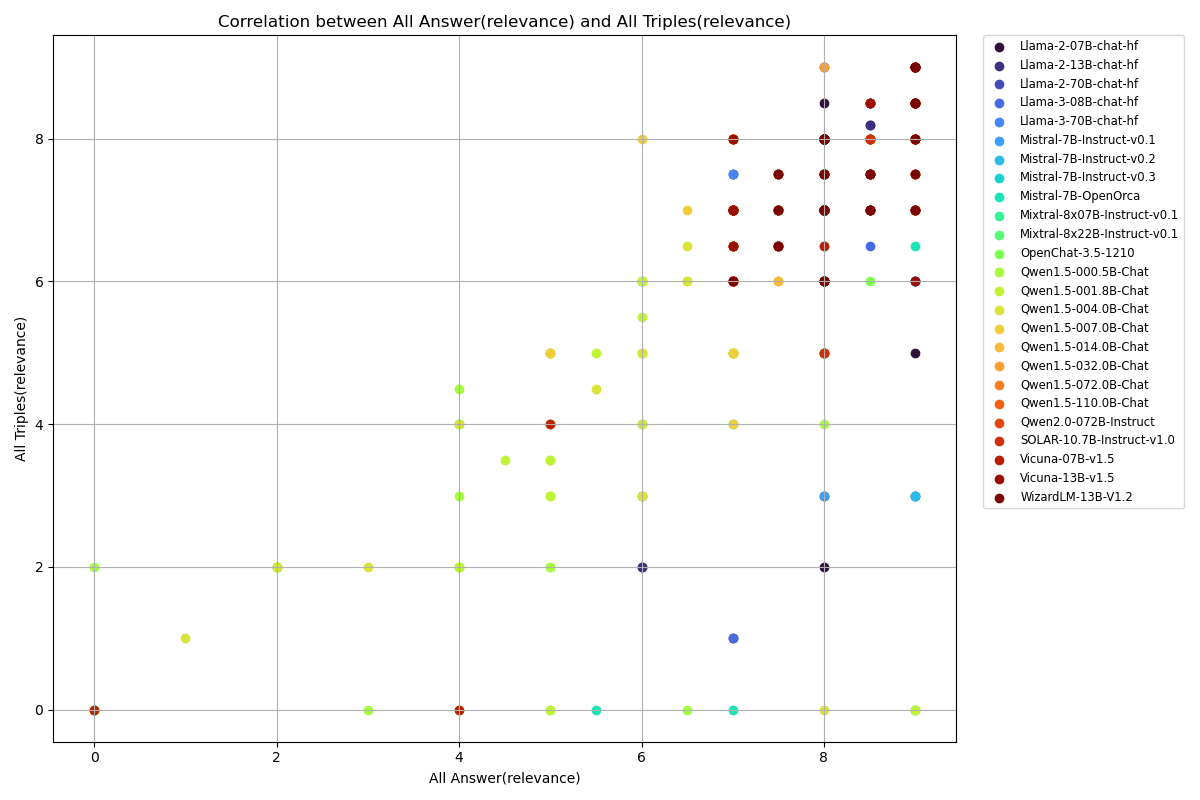
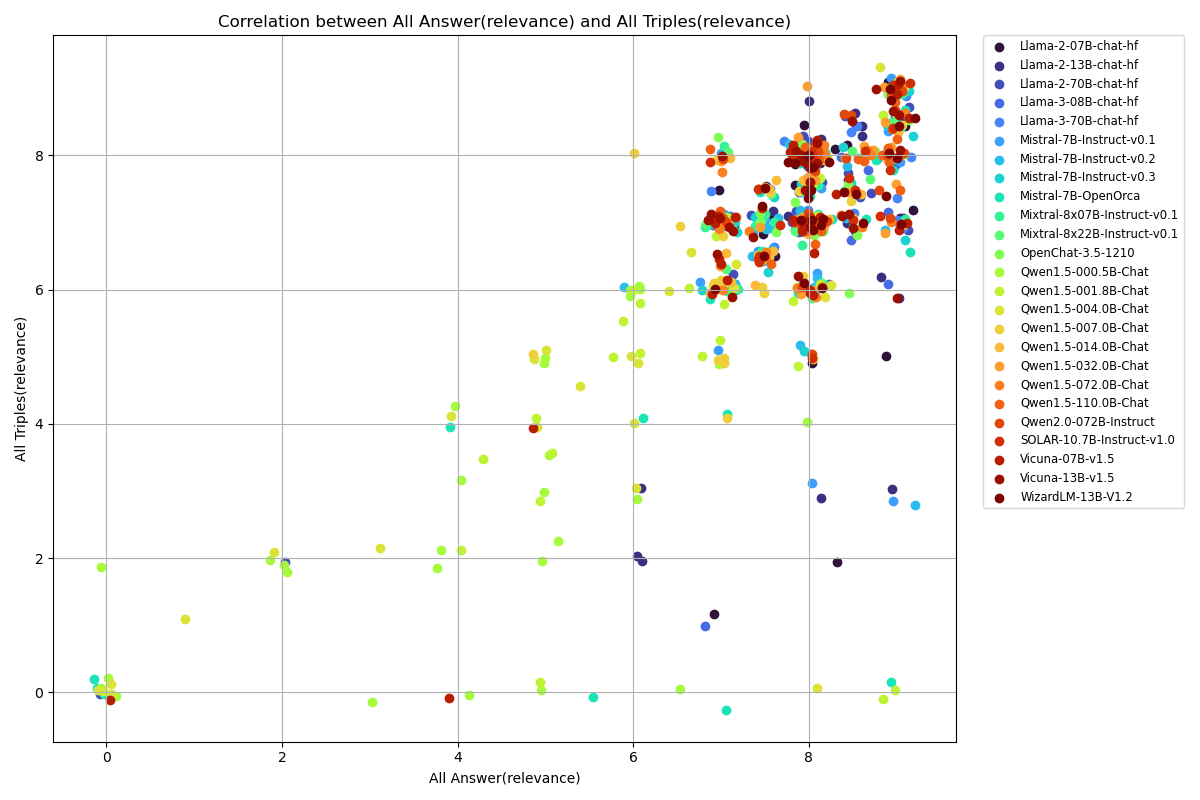
jitter 추가!

diff --git a/summarize.py b/summarize.py
@@ -1,4 +1,5 @@
 import matplotlib.pyplot as plt
+import numpy as np
 
 from chrisbase.io import *
 
@@ -82,7 +83,9 @@ for aspect in aspects:
     colors = {model_id: colormap(i) for i, model_id in enumerate(results_df['Model ID'].unique())}
     for model_id in results_df['Model ID'].unique():
         subset = results_df[results_df['Model ID'] == model_id]
-        plt.scatter(subset[f"Avg Answer({aspect})"], subset[f"Avg Triples({aspect})"], color=colors[model_id], label=model_id)
+        jitter_x = np.random.normal(0, 0.3, size=subset.shape[0])
+        jitter_y = np.random.normal(0, 0.3, size=subset.shape[0])
+        plt.scatter(subset[f"Avg Answer({aspect})"] + jitter_x, subset[f"Avg Triples({aspect})"] + jitter_y, color=colors[model_id], label=model_id)
     plt.title(f'Correlation between Avg Answer({aspect}) and Avg Triples({aspect})')
     plt.xlabel(f"Avg Answer({aspect})")
     plt.ylabel(f"Avg Triples({aspect})")
@@ -112,7 +115,9 @@ for aspect in aspects:
     colors = {model_id: colormap(i) for i, model_id in enumerate(results_df['Model ID'].unique())}
     for model_id in results_df['Model ID'].unique():
         subset = results_df[results_df['Model ID'] == model_id]
-        plt.scatter(subset[f"All Answer({aspect})"], subset[f"All Triples({aspect})"], color=colors[model_id], label=model_id)
+        jitter_x = np.random.normal(0, 0.1, size=subset.shape[0])
+        jitter_y = np.random.normal(0, 0.1, size=subset.shape[0])
+        plt.scatter(subset[f"All Answer({aspect})"] + jitter_x, subset[f"All Triples({aspect})"] + jitter_y, color=colors[model_id], label=model_id)
     plt.title(f'Correlation between All Answer({aspect}) and All Triples({aspect})')
     plt.xlabel(f"All Answer({aspect})")
     plt.ylabel(f"All Triples({aspect})")
